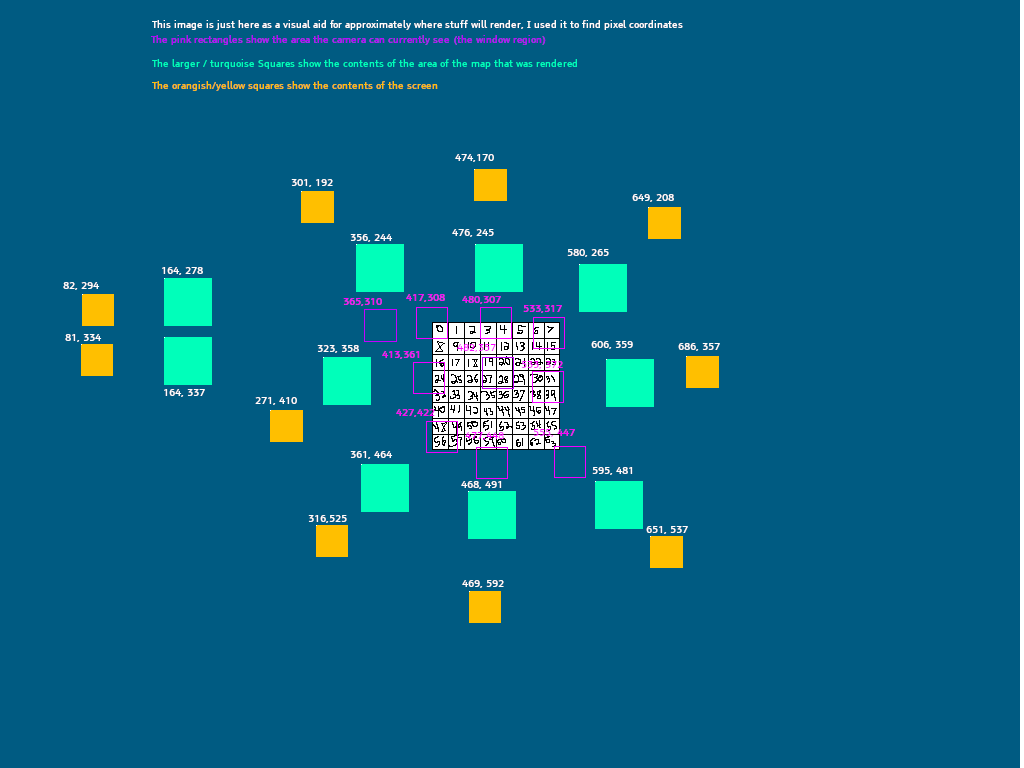
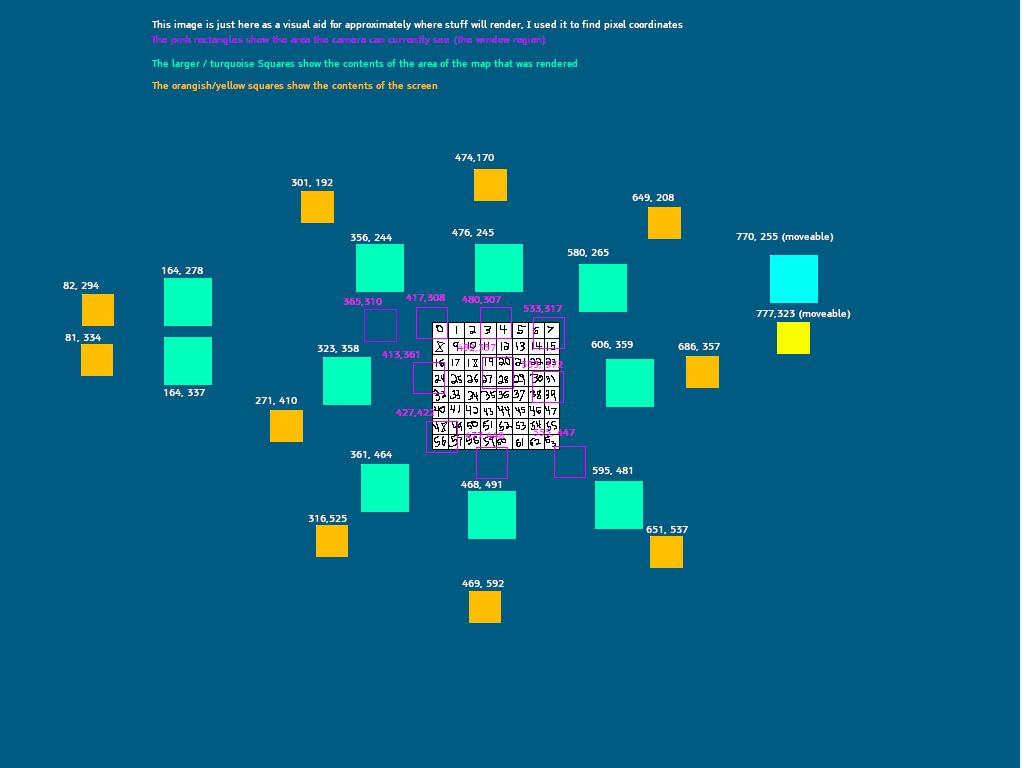
Added interactive, mouse controlled region, fixed a few more bugs

Changed region(s): [[0.7188, 0.2812, 0.8438, 0.4688]]

diff --git a/WindowMapIntersect.cc b/WindowMapIntersect.cc
@@ -56,6 +56,7 @@ struct TestTextures_t
     SDL_Texture* West;
     SDL_Texture* AllIn;
     SDL_Texture* AllOut;
+    SDL_Texture* Moveable;
 };
 
 struct Color_t
@@ -107,6 +108,8 @@ IntVec2_t MapTextureSize;
 
 TestTextures_t ScreenRenderTextures;
 TestTextures_t MapRenderTextures;
+
+IntVec2_t MousePosition;
 
 IntVec2_t InquireTextureSize(SDL_Texture* texture)
 {
@@ -470,6 +473,11 @@ int HandleInput()
         {
             return 1;
         }
+        else if(event.type == SDL_MOUSEMOTION)
+        {
+            MousePosition.X = event.motion.x;
+            MousePosition.Y = event.motion.y;
+        }
     }
 
     return 0;
@@ -628,7 +636,7 @@ int min(int a, int b)
 }
 
 // Returns a rectangle showing the area to copy from, to get all of the useful pixels rendered from the map that would be in the player's view
-SDL_Rect GetTextureReadArea(const IntVec2_t& windowTopLeft_RelToTextureTopLeft, const IntVec2_t& windowSize, const WindowIntersectType_t& intersectType)
+SDL_Rect GetTextureReadArea(const IntVec2_t& windowTopLeft_RelToTextureTopLeft, const IntVec2_t& windowSize, const WindowIntersectType_t& intersectType, const SDL_Rect& renderedRectangle)
 {
     // yeah, we do need the offset to be not clamped at 0, because otherwise hit doesn't truncate the northeast case
     const IntVec2_t textureOffset = {max(0, windowTopLeft_RelToTextureTopLeft.X), max(0, windowTopLeft_RelToTextureTopLeft.Y)};
@@ -677,7 +685,7 @@ SDL_Rect GetTextureReadArea(const IntVec2_t& windowTopLeft_RelToTextureTopLeft, 
         case WindowIntersectType_t::North:
         {
             SDL_Rect rect = {0};
-            rect.x = 0; // can be windowTopLeft_RelToTextureTopLeft.X
+            rect.x = windowTopLeft_RelToTextureTopLeft.X;
             rect.y = 0; // is NOT windowTopLeft_RelToTextureTopLeft.Y, which is NOT zero
             rect.w = windowSize.X;
             rect.h = windowSize.Y + windowTopLeft_RelToTextureTopLeft.Y; // really is plus! windowTopLeft is negative!
@@ -687,12 +695,24 @@ SDL_Rect GetTextureReadArea(const IntVec2_t& windowTopLeft_RelToTextureTopLeft, 
             return rect;
         }
         case WindowIntersectType_t::East:
+        {
+            SDL_Rect rect = {0};
+            rect.x = windowTopLeft_RelToTextureTopLeft.X;
+            rect.y = windowTopLeft_RelToTextureTopLeft.Y;
+            rect.w = renderedRectangle.w - windowTopLeft_RelToTextureTopLeft.X;
+            rect.h = windowSize.Y;
+
+            CheckArea(rect, windowSize);
+
+            return rect;
+        }
+        
         case WindowIntersectType_t::NorthEast:
         {
             SDL_Rect rect = {0};
             rect.x = windowTopLeft_RelToTextureTopLeft.X;
             rect.y = 0; // is NOT windowTopLeft_RelToTextureTopLeft.Y, which is NOT zero
-            rect.w = windowSize.X - windowTopLeft_RelToTextureTopLeft.X;
+            rect.w = renderedRectangle.w - windowTopLeft_RelToTextureTopLeft.X;
             rect.h = windowSize.Y + windowTopLeft_RelToTextureTopLeft.Y; // for east, windowTopLeft_RelToTexturetopLeft will be 0; really is plus, Y is negative for NE
 
             CheckArea(rect, windowSize);
@@ -704,8 +724,8 @@ SDL_Rect GetTextureReadArea(const IntVec2_t& windowTopLeft_RelToTextureTopLeft, 
             SDL_Rect rect = {0};
             rect.x = windowTopLeft_RelToTextureTopLeft.X;
             rect.y = windowTopLeft_RelToTextureTopLeft.Y;
-            rect.w = cGridSize_px - windowTopLeft_RelToTextureTopLeft.X;
-            rect.h = cGridSize_px - windowTopLeft_RelToTextureTopLeft.Y;
+            rect.w = renderedRectangle.w - windowTopLeft_RelToTextureTopLeft.X;
+            rect.h = renderedRectangle.h - windowTopLeft_RelToTextureTopLeft.Y;
 
             CheckArea(rect, windowSize);
 
@@ -718,7 +738,7 @@ SDL_Rect GetTextureReadArea(const IntVec2_t& windowTopLeft_RelToTextureTopLeft, 
             rect.x = windowTopLeft_RelToTextureTopLeft.X;
             rect.y = windowTopLeft_RelToTextureTopLeft.Y;
             rect.w = windowSize.X;
-            rect.h = cGridSize_px - windowTopLeft_RelToTextureTopLeft.Y;
+            rect.h = renderedRectangle.h - windowTopLeft_RelToTextureTopLeft.Y;
 
             CheckArea(rect, windowSize);
 
@@ -731,7 +751,7 @@ SDL_Rect GetTextureReadArea(const IntVec2_t& windowTopLeft_RelToTextureTopLeft, 
             rect.x = 0; // is NOT windowTopLeft_RelToTextureTopLeft, which is NOT zero
             rect.y = windowTopLeft_RelToTextureTopLeft.Y;
             rect.w = windowSize.X + windowTopLeft_RelToTextureTopLeft.X; // is NOT minus, X is negative, we want to truncate off the part to the left of the texture's bounds
-            rect.h = windowSize.Y - windowTopLeft_RelToTextureTopLeft.Y;
+            rect.h = renderedRectangle.h - windowTopLeft_RelToTextureTopLeft.Y;
 
             CheckArea(rect, windowSize);
 
@@ -787,7 +807,7 @@ IntVec2_t FindGridCoordinateForPoint(IntVec2_t point, int gridSize)
 }
 
 
-void RenderMapRegion(SDL_Texture* mapRenderTexture, const IntVec2_t& northWestTile, const IntVec2_t southEastTile, const IntVec2_t& mapSize_px)
+SDL_Rect RenderMapRegion(SDL_Texture* mapRenderTexture, const IntVec2_t& northWestTile, const IntVec2_t southEastTile, const IntVec2_t& mapSize_px)
 {
     SDL_SetRenderTarget(SDLGlobals.Renderer, mapRenderTexture);
 
@@ -835,6 +855,8 @@ void RenderMapRegion(SDL_Texture* mapRenderTexture, const IntVec2_t& northWestTi
         //DrawWindowRegion(dimensions_Clamped, {0, 0}, {255, 0, 0});
 
         SDL_SetRenderTarget(SDLGlobals.Renderer, nullptr);
+
+        return renderRectangle;
     }
 }
 
@@ -852,7 +874,7 @@ IntVec2_t DEMO_TextureWindowRegion_RelToTexture(const IntVec2_t& relToMap_Window
     return topLeftOfTextureToRegionTopLeft;
 }
 
-void RenderMapToTexture(SDL_Texture* mapRenderTexture, const IntVec2_t& windowSize, const IntVec2_t& relToMap_WindowTopLeft)
+SDL_Rect RenderMapToTexture(SDL_Texture* mapRenderTexture, const IntVec2_t& windowSize, const IntVec2_t& relToMap_WindowTopLeft)
 {
     const IntVec2_t gridCoordOfWindow_TopLeft = FindGridCoordinateForPoint(relToMap_WindowTopLeft, cGridSize_px);
 
@@ -861,11 +883,13 @@ void RenderMapToTexture(SDL_Texture* mapRenderTexture, const IntVec2_t& windowSi
     const IntVec2_t gridCoordOfWindow_BottomRight = FindGridCoordinateForPoint_RoundUp(windowBottomRight, cGridSize_px);
 
     // render the part of the map the player can see to a texture
-    RenderMapRegion(mapRenderTexture, gridCoordOfWindow_TopLeft, gridCoordOfWindow_BottomRight, MapTextureSize);
+    SDL_Rect renderedRectangle = RenderMapRegion(mapRenderTexture, gridCoordOfWindow_TopLeft, gridCoordOfWindow_BottomRight, MapTextureSize);
+
+    return renderedRectangle;
 
 }
 
-void CopyRenderedMapToScreen(SDL_Texture* screenRenderTexture, SDL_Texture* mapRenderTexture, const IntVec2_t& relToMap_WindowTopLeft, const IntVec2_t& windowSize)
+void CopyRenderedMapToScreen(SDL_Texture* screenRenderTexture, SDL_Texture* mapRenderTexture, const IntVec2_t& relToMap_WindowTopLeft, const IntVec2_t& windowSize, const SDL_Rect& renderedRectangle)
 {
     const IntVec2_t gridCoordOfWindow_TopLeft = FindGridCoordinateForPoint(relToMap_WindowTopLeft, cGridSize_px);
 
@@ -889,7 +913,7 @@ void CopyRenderedMapToScreen(SDL_Texture* screenRenderTexture, SDL_Texture* mapR
     const IntVec2_t topLeftValidTileTopLeft_px = {topLeftValidTile.X * cGridSize_px, topLeftValidTile.Y * cGridSize_px};
     const IntVec2_t validTopLeftTileToRegionTopLeft = {relToMap_WindowTopLeft.X - topLeftValidTileTopLeft_px.X, relToMap_WindowTopLeft.Y - topLeftValidTileTopLeft_px.Y};
 
-    const SDL_Rect srcRect = GetTextureReadArea(validTopLeftTileToRegionTopLeft , windowSize, intersectType);
+    const SDL_Rect srcRect = GetTextureReadArea(validTopLeftTileToRegionTopLeft , windowSize, intersectType, renderedRectangle);
 
     const IntVec2_t screenDestOrigin = GetDrawRenderOffset(srcRect, windowSize, intersectType);
 
@@ -911,7 +935,7 @@ void RenderWindow(SDL_Texture* screenRenderTexture, SDL_Texture* mapRenderTextur
     // Though maybe this would be useful outside of this demo, if you wanted to offset where the map was drawn
     const IntVec2_t relToMap_WindowTopLeft = {windowTopLeft_px.X - cMapOrigin.X, windowTopLeft_px.Y- cMapOrigin.Y };
 
-    RenderMapToTexture(mapRenderTexture, windowSize, relToMap_WindowTopLeft);
+    SDL_Rect mapTextureRenderedRectangle = RenderMapToTexture(mapRenderTexture, windowSize, relToMap_WindowTopLeft);
 
     // DEMO ONLY: for the sake of visualization, render the contents of the rendered map texture to the screen, this would not be done in a real game
     {
@@ -940,7 +964,7 @@ void RenderWindow(SDL_Texture* screenRenderTexture, SDL_Texture* mapRenderTextur
         }
     }
 
-    CopyRenderedMapToScreen(screenRenderTexture, mapRenderTexture, relToMap_WindowTopLeft, windowSize);
+    CopyRenderedMapToScreen(screenRenderTexture, mapRenderTexture, relToMap_WindowTopLeft, windowSize, mapTextureRenderedRectangle);
 
     // DEMO ONLY: now copy the part of the mapRenderTexture that contains the map onto the screen (with an orangish background behind it)
     {
@@ -972,8 +996,8 @@ void Render(void)
     IntVec2_t northRegion = {480, 306};
     IntVec2_t northEastRegion = {533, 316};
     IntVec2_t eastRegion = {532, 370};
-    IntVec2_t southEastRegion = {555, 445};
-    IntVec2_t southRegion = {476, 446};
+    IntVec2_t southEastRegion = {534, 426};
+    IntVec2_t southRegion = {476, 427};
     IntVec2_t southWestRegion = {426, 420};
     IntVec2_t westRegion = {413, 361};
 
@@ -993,21 +1017,26 @@ void Render(void)
 
     DEMO_DrawWindowRegion(cWindowSize_px, allInRegion);
     DEMO_DrawWindowRegion(cWindowSize_px, allOutRegion);
+    DEMO_DrawWindowRegion(cWindowSize_px, MousePosition); // moveable region
 
     // Draw what these windows would see
     // note: I had trouble getting the exact coordinates of the upper left hand corners of these regions, may be off by +/- 1 px from what's in layout.xcf
-    RenderWindow(ScreenRenderTextures.NorthWest,    MapRenderTextures.NorthWest,    cWindowSize_px, northWestRegion,    {356, 244},   {301, 192});
-    RenderWindow(ScreenRenderTextures.North,        MapRenderTextures.North,        cWindowSize_px, northRegion,        {476, 245},   {474, 170});
-    RenderWindow(ScreenRenderTextures.NorthEast,    MapRenderTextures.NorthEast,    cWindowSize_px, northEastRegion,    {580, 265},   {649, 208});
-    RenderWindow(ScreenRenderTextures.East,         MapRenderTextures.East,         cWindowSize_px, eastRegion,         {606, 359},   {686, 357});
 
-    RenderWindow(ScreenRenderTextures.SouthEast,    MapRenderTextures.SouthEast,    cWindowSize_px, southEastRegion,    {595, 481},   {651, 537});
-    RenderWindow(ScreenRenderTextures.South,        MapRenderTextures.South,        cWindowSize_px, southRegion,        {468, 491},   {469, 592});
-    RenderWindow(ScreenRenderTextures.SouthWest,    MapRenderTextures.SouthWest,    cWindowSize_px, southWestRegion,    {361, 464},   {316, 525});
-    RenderWindow(ScreenRenderTextures.West,         MapRenderTextures.West,         cWindowSize_px, westRegion,         {323, 358},   {271, 410});
+    //          screen texture (orange)             map render texture (cyan)       window size     region position     map texture render position     screen texture render position
+    RenderWindow(ScreenRenderTextures.NorthWest,    MapRenderTextures.NorthWest,    cWindowSize_px, northWestRegion,    {356, 244},                     {301, 192});
+    RenderWindow(ScreenRenderTextures.North,        MapRenderTextures.North,        cWindowSize_px, northRegion,        {476, 245},                     {474, 170});
+    RenderWindow(ScreenRenderTextures.NorthEast,    MapRenderTextures.NorthEast,    cWindowSize_px, northEastRegion,    {580, 265},                     {649, 208});
+    RenderWindow(ScreenRenderTextures.East,         MapRenderTextures.East,         cWindowSize_px, eastRegion,         {606, 359},                     {686, 357});
 
-    RenderWindow(ScreenRenderTextures.AllIn,        MapRenderTextures.AllIn,        cWindowSize_px, allInRegion,        {164, 278},   {82, 294});
-    RenderWindow(ScreenRenderTextures.AllOut,       MapRenderTextures.AllOut,       cWindowSize_px, allOutRegion,       {164, 337},   {81, 334});
+    RenderWindow(ScreenRenderTextures.SouthEast,    MapRenderTextures.SouthEast,    cWindowSize_px, southEastRegion,    {595, 481},                     {651, 537});
+    RenderWindow(ScreenRenderTextures.South,        MapRenderTextures.South,        cWindowSize_px, southRegion,        {468, 491},                     {469, 592});
+    RenderWindow(ScreenRenderTextures.SouthWest,    MapRenderTextures.SouthWest,    cWindowSize_px, southWestRegion,    {361, 464},                     {316, 525});
+    RenderWindow(ScreenRenderTextures.West,         MapRenderTextures.West,         cWindowSize_px, westRegion,         {323, 358},                     {271, 410});
+
+    RenderWindow(ScreenRenderTextures.AllIn,        MapRenderTextures.AllIn,        cWindowSize_px, allInRegion,        {164, 278},                     {82, 294});
+    RenderWindow(ScreenRenderTextures.AllOut,       MapRenderTextures.AllOut,       cWindowSize_px, allOutRegion,       {164, 337},                     {81, 334});
+
+    RenderWindow(ScreenRenderTextures.AllOut,       MapRenderTextures.AllOut,       cWindowSize_px, MousePosition,      {770, 255},                     {777, 323});
 
     SDL_RenderPresent(SDLGlobals.Renderer);
 }
@@ -1057,6 +1086,7 @@ static TestTextures_t AllocateTestTextures(const IntVec2_t& size)
 
     textures.AllIn      = AllocateTexture(size);
     textures.AllOut     = AllocateTexture(size);
+    textures.Moveable   = AllocateTexture(size);
 
     return textures;
 }
@@ -1075,6 +1105,7 @@ static void FreeTextures(TestTextures_t& textures)
 
     SDL_DestroyTexture(textures.AllIn);
     SDL_DestroyTexture(textures.AllOut);
+    SDL_DestroyTexture(textures.Moveable);
 
     textures = {0};
 }
